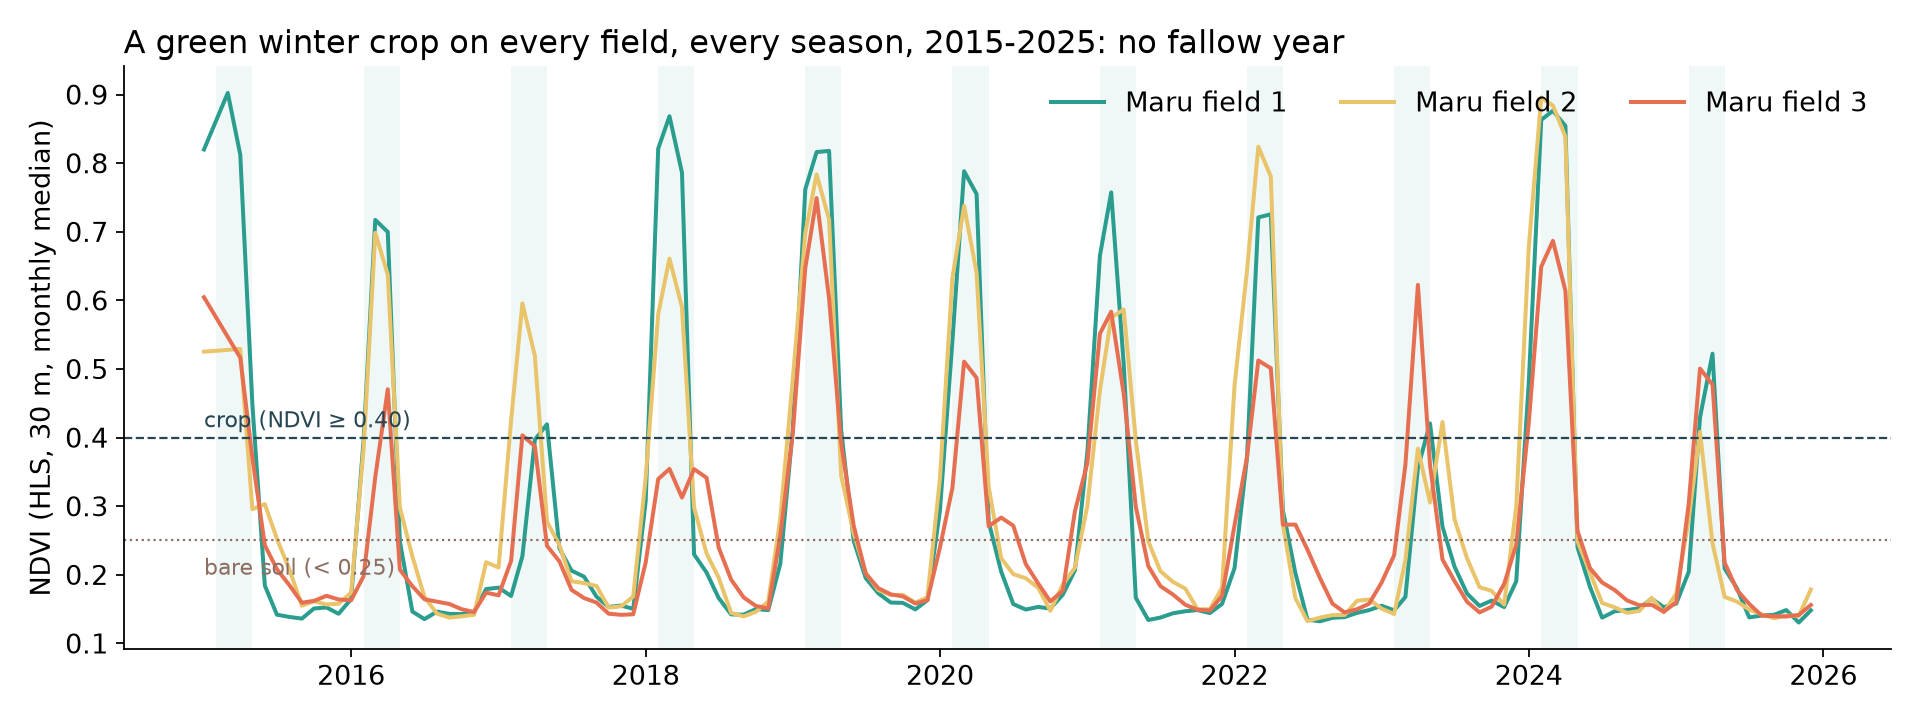
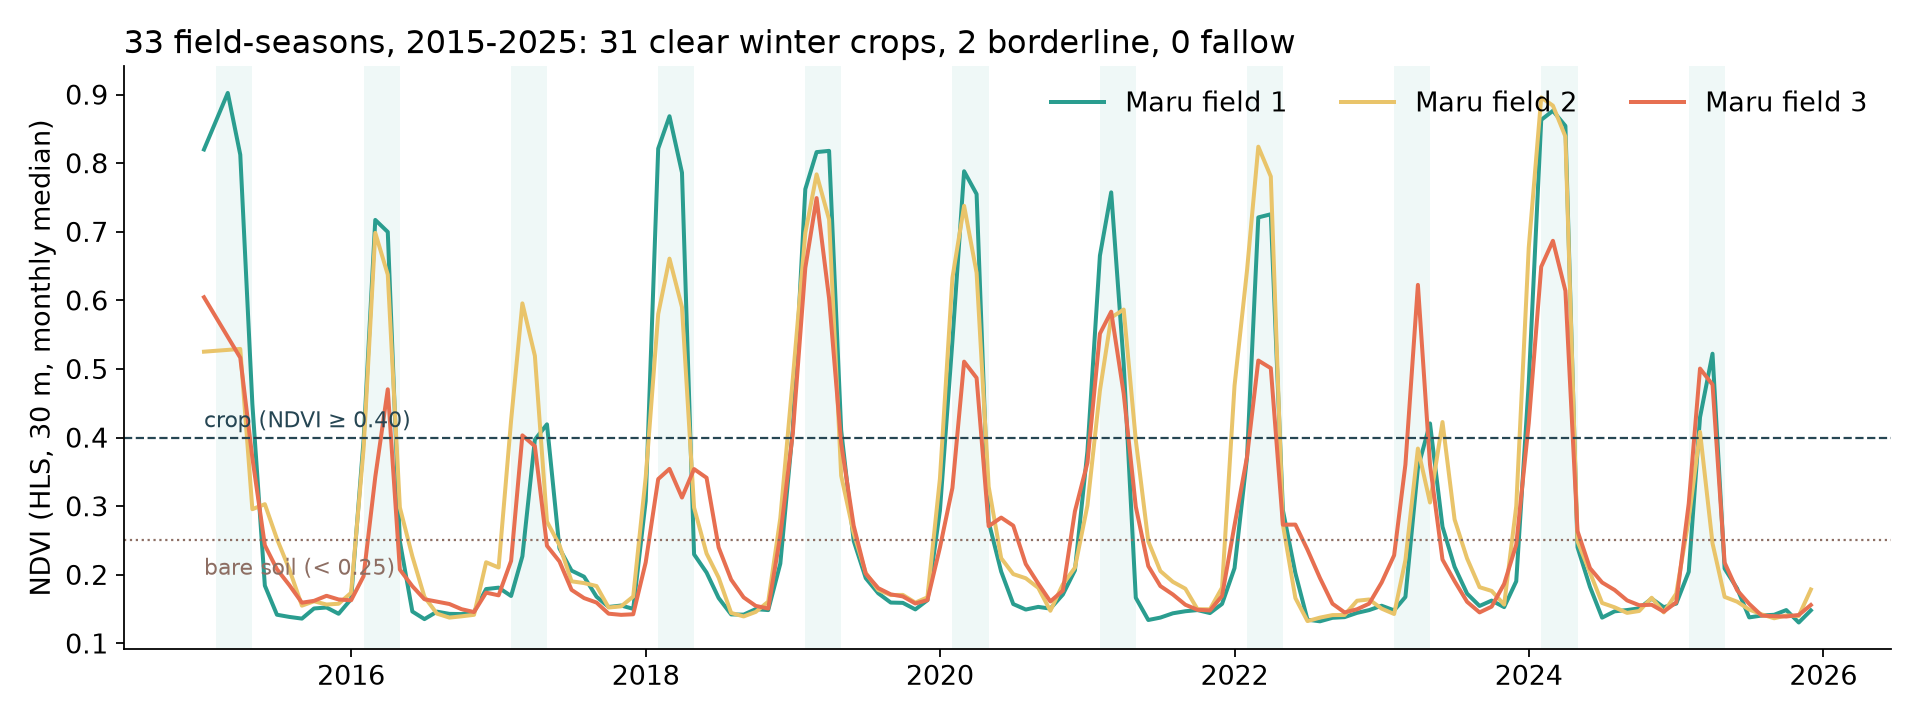
Add submission drafts; state season counts precisely (31 clear, 2 borderline, 0 fallow)

Changed region(s): [[0.0625, 0.0306, 0.6875, 0.0917]]

diff --git a/prep/figures.py b/prep/figures.py
@@ -30,7 +30,7 @@ def ndvi_history():
     ax.text(s.date.min(), 0.415, "crop (NDVI ≥ 0.40)", color="#264653", fontsize=10)
     ax.text(s.date.min(), 0.20, "bare soil (< 0.25)", color="#8d6e63", fontsize=10)
     ax.set_ylabel("NDVI (HLS, 30 m, monthly median)")
-    ax.set_title("A green winter crop on every field, every season, 2015-2025: no fallow year", loc="left")
+    ax.set_title("33 field-seasons, 2015-2025: 31 clear winter crops, 2 borderline, 0 fallow", loc="left")
     ax.legend(frameon=False, ncol=3, loc="upper right")
     return fig
 

diff --git a/docs/SUBMISSION.md b/docs/SUBMISSION.md
@@ -1,0 +1,119 @@
+# Submission drafts (NASA Space Apps 2026)
+
+Drafts for the submission page. Items marked **[TEAM]** need a teammate to confirm before we paste them.
+Deadline: **Sunday 15 Nov 2026, 11:59 PM**.
+
+---
+
+## 1. High-level summary
+
+Field Shift is an Arabic-first crop-rotation explorer for rainfed farms around Maru, Irbid, in northern Jordan, one of the most water-scarce countries on Earth. A farmer picks their field, sets what matters to them, and compares three rotations side by side (wheat–wheat, wheat–lentil, wheat–fallow) against what the field is already doing.
+
+The current rotation is not guessed: 11 years of NASA HLS satellite imagery show that our three study fields were never left fallow: in 31 of 33 field-seasons since 2015 they carried a clear winter crop, and the other 2 were borderline green, never bare. Every number the farmer sees carries a confidence badge, because we tested NASA data against the ground before trusting it. Near Maru, NASA POWER temperatures ran 2.4 °C too warm because its grid cell sits 440 m lower than the farm. We corrected for elevation and cut the error by two thirds. Satellite rainfall still misses about 22% of local rain, so the tool says so.
+
+The tool supports the farmer's decision. It does not make it.
+
+## 2. Project demo
+
+**[TEAM]** Link to the 7-slide deck (Kosay, Mohammad). Figures ready to use in `docs/figures/`:
+
+- `ndvi_history.png`: 11 years of NDVI for the three fields (no fallow year)
+- `temperature_check.png`: station vs NASA POWER, raw and elevation-corrected
+- `rain_check.png`: station vs NASA POWER vs GPM IMERG rainfall
+
+## 3. Final project link
+
+- Live app: https://field-shift-maru.streamlit.app
+- Code and data: https://github.com/Zaid-sh05/field-shift
+
+## 4. Project details
+
+**What it does.** For each field, the app shows:
+
+- the rotation the field is using today, read from satellite vegetation history;
+- three alternative rotations scored on the farmer's own priorities **[TEAM: Lana to confirm the final criteria]**;
+- a plain-language explanation for each option;
+- a 12-month bare-soil timeline;
+- a confidence badge on every number: high for field-scale satellite data, medium for regional data checked against the ground, low for assumptions and reference values.
+
+**How it works.**
+
+1. *Fields.* We drew three real rainfed fields near Maru (5–8 ha each) over satellite imagery, inside the field and away from roads, houses and olive groves.
+2. *Satellite data (Google Earth Engine).* For every field we extract monthly series for 2015–2025:
+   - HLS (Landsat 8/9 and Sentinel-2) cloud-masked NDVI at 30 m;
+   - SMAP L4 root-zone soil moisture;
+   - GPM IMERG rainfall;
+   - GRACE/GRACE-FO water storage;
+   - SRTM elevation and slope.
+3. *Climate (NASA POWER).* We use 28 years of daily weather and correct temperature for each field's real elevation from SRTM. From that we derive frost days, heat days, dry spells and water-balance inputs.
+4. *Ground check.* We compare NASA data with 18 months of published weather from the Maru research station (NARC/JUST):
+   - Temperature error drops from 2.37 °C to 0.56–0.96 °C after the elevation correction. The range covers any lapse rate from 5 to 7 °C/km, so the result does not hinge on one tuned number.
+   - NASA POWER and IMERG both under-count rain by about 22%.
+5. *Season reading.* A rule-based classifier labels each field-season from NDVI as winter crop, irrigated summer, fallow or uncertain. NDVI cannot tell wheat from lentil, so the farmer confirms the crop.
+6. *Scoring.* **[TEAM: Lana]** A transparent multi-criteria score, weighted by the farmer's priorities, with a "close call" flag when the ranking flips under small weight changes.
+7. *Interface.* **[TEAM: Mohammad]** Streamlit, Arabic right-to-left. The app reads prepared files only, so it keeps working on weak internet.
+
+**Tools.** Python, Google Earth Engine, pandas, Streamlit, folium, Plotly, matplotlib, GitHub, Streamlit Community Cloud.
+
+**Goals.**
+
+- Give smallholders a fair comparison of rotations using free NASA data.
+- Be honest about how far each number can be trusted.
+- Show a method that any extension office could repeat for another village.
+
+**Limits we state openly.**
+
+- One site and three fields.
+- An 18-month ground check, which is a check, not a calibration.
+- No field-level soil measurements: we show the published Maru profile as a low-confidence reference.
+- Heat days are not yet verified against local maximum temperatures.
+
+## 5. Use of NASA data and AI
+
+### NASA data
+
+| Dataset | Earth Engine / API ID | Used for |
+|---|---|---|
+| HLS Landsat 30 m (HLSL30 v2.0) | `NASA/HLS/HLSL30/v002` | NDVI, crop history, bare-soil months |
+| HLS Sentinel-2 30 m (HLSS30 v2.0) | `NASA/HLS/HLSS30/v002` | NDVI, crop history, bare-soil months |
+| SMAP L4 soil moisture | `NASA/SMAP/SPL4SMGP/008` | Root-zone moisture context |
+| GPM IMERG V07 monthly | `NASA/GPM_L3/IMERG_MONTHLY_V07` | Rainfall, cross-check with POWER and station |
+| GRACE/GRACE-FO mascons (JPL) | `NASA/GRACE/MASS_GRIDS_V04/MASCON` | Regional water-storage trend |
+| SRTM 30 m | `USGS/SRTMGL1_003` | Field elevation (temperature correction), slope |
+| NASA POWER (Agroclimatology) | power.larc.nasa.gov API | Daily temperature, rain, radiation, humidity, wind, soil wetness, 1998–2025 |
+
+### AI
+
+- **Claude (Anthropic)** helped with research and preparation, with writing and reviewing data-processing code, with analysis (the elevation check, validation and figures), and with drafting documentation. The team reviewed and ran all code.
+- **ChatGPT / Codex (OpenAI)** helped a teammate assemble the Maru data package from published sources.
+- **[TEAM: Lana]** In the app, an LLM writes plain-language explanations from scores the engine has already computed. It never chooses the recommended rotation. Name the model here.
+- No AI-generated data is presented as measurement. Every number traces to a NASA dataset or a cited publication.
+
+## 6. References
+
+**NASA and satellite data**
+
+- NASA POWER API, Agroclimatology community. https://power.larc.nasa.gov/docs/services/api/
+- Harmonized Landsat Sentinel-2 (HLS) v2.0, NASA LP DAAC. https://lpdaac.usgs.gov/products/hlsl30v002/ and https://lpdaac.usgs.gov/products/hlss30v002/
+- SMAP L4 Global 3-hourly Surface and Root Zone Soil Moisture (SPL4SMGP v8), NASA NSIDC DAAC. https://nsidc.org/data/spl4smgp
+- GPM IMERG Final Run V07, NASA GES DISC. https://gpm.nasa.gov/data/imerg
+- GRACE/GRACE-FO JPL mascons RL06. https://grace.jpl.nasa.gov/
+- NASA SRTM Version 3 (SRTMGL1). https://lpdaac.usgs.gov/products/srtmgl1v003/
+- MERRA-2 FAQ (soil wetness in POWER). https://gmao.gsfc.nasa.gov/gmao-products/merra-2/faq_merra-2/
+
+**Other data and tools**
+
+- ECMWF ERA5-Land daily aggregates (used only to cross-check heat days). `ECMWF/ERA5_LAND/DAILY_AGGR`
+- Google Earth Engine. https://earthengine.google.com/
+
+**Local and agronomic sources**
+
+- Maru station weather and soil, NARC/JUST study. https://doi.org/10.15159/AR.20.236
+- Maru rotation trials (wheat–wheat, wheat–lentil, wheat–fallow), IAEA TECDOC-1468. https://www-pub.iaea.org/MTCD/Publications/PDF/te_1468_web.pdf
+- FAO Irrigation and Drainage Paper 56, crop coefficients. https://www.fao.org/4/x0490e/x0490e0b.htm
+- FAO crop water needs. https://www.fao.org/4/s2022e/s2022e02.htm
+- FAO crop rotation guidance. https://www.fao.org/4/Y5146E/y5146e0a.htm
+
+**Challenge**
+
+- Space Apps 2026, Field Shift: Adapting Farms with NASA Data. https://www.spaceappschallenge.org/2026/challenges/field-shift-adapting-farms-with-nasa-data/

diff --git a/README.md b/README.md
@@ -22,7 +22,7 @@ Following our mentor's advice to go deep on one area with local data, we focus o
 
 What the data showed:
 
-- **No fallow season in 11 years.** HLS NDVI shows a green winter crop on all three fields in every season from 2015 to 2025. The current practice is continuous winter cropping, which is the baseline we compare against. (NDVI cannot tell wheat from lentil, so the farmer confirms the crop.)
+- **No fallow season in 11 years.** HLS NDVI shows a clear winter crop in 31 of 33 field-seasons from 2015 to 2025; the other 2 are borderline green, and none is bare. The current practice is continuous winter cropping, which is the baseline we compare against. (NDVI cannot tell wheat from lentil, so the farmer confirms the crop.)
 - **NASA temperature runs hot here, and we know why.** The NASA POWER grid cell sits at 149 m; the Maru station is at 589 m. Against 18 months of published station data, the mean-temperature error is 2.37 °C raw and 0.56–0.96 °C after a standard lapse-rate correction (5–7 °C/km). The result holds across the whole range, so it does not depend on one tuned number.
 - **Both satellite rainfall products under-count.** NASA POWER and GPM IMERG each show about 22% less rain than the station over the same months, so rainfall is shown with medium confidence.
 
